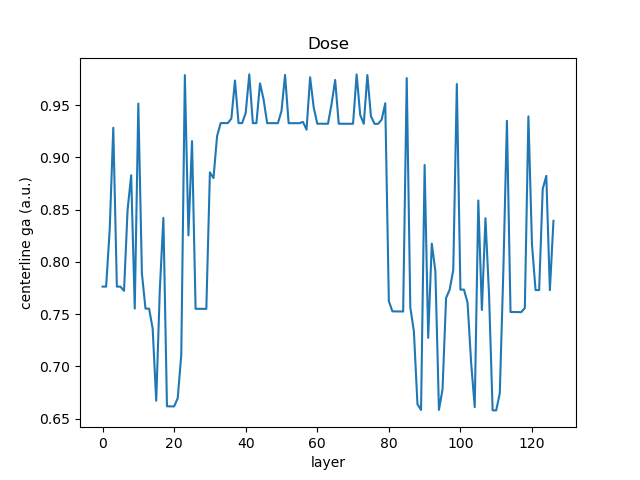
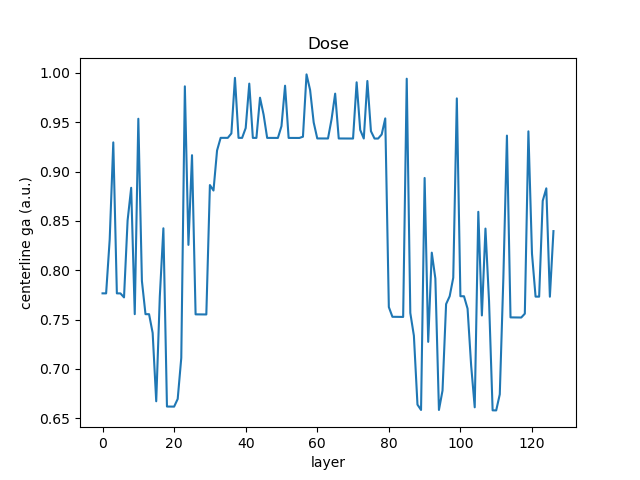
Though messy, get a commit. Because it gives the right result

diff --git a/FastDoseExample/scripts.py b/FastDoseExample/scripts.py
@@ -326,7 +326,11 @@ def examine_X():
     """
     This function examines the intermediate values XA
     """
-    file = "/data/qifan/projects/EndtoEnd/results/CCCSBench/DoseCompDebug_VoxelIdx.bin"
+    idx_flag = False
+    if idx_flag:
+        file = "/data/qifan/projects/EndtoEnd/results/CCCSBench/DoseCompDebug_VoxelIdx.bin"
+    else:
+        file = "/data/qifan/projects/EndtoEnd/results/CCCSBench/DoseCompDebug.bin"
     shape = (1024, 16, 16)
     array = np.fromfile(file, dtype=np.float32)
     array = np.reshape(array, shape)
@@ -343,8 +347,8 @@ def examine_X():
     dimZ = int(DoseArray.size / (sliceShape[0] * sliceShape[1]))
     print("Dose dimension Z: ", dimZ)
 
-    if True:
-        x_value = np.arange(nNonzero)
+    x_value = np.arange(nNonzero)
+    if False:
         plt.plot(x_value, array_partial[:nNonzero])
         plt.xlabel('layer')
         plt.ylabel('partialX')
@@ -359,7 +363,10 @@ def examine_X():
         plt.xlabel('layer')
         plt.ylabel('centerlineX')
         plt.title('XA')
-        figureFile = './figures/centerlineX.png'
+        if idx_flag:
+            figureFile = './figures/centerlineX.png'
+        else:
+            figureFile = './figures/rayTraceX.png'
         plt.savefig(figureFile)
         plt.clf()
 
@@ -399,7 +406,9 @@ def examineDoseStep():
     plt.xlabel('layer')
     plt.ylabel('centerline ga (a.u.)')
     plt.title('Dose')
-    figureFile = './figures/centerlineGA.png'
+    # figureFile = './figures/centerlineGA.png'
+    # figureFile = './figures/centerlineLineSegDose.png'
+    figureFile = './figures/centerlineSharedDose.png'
     plt.savefig(figureFile)
     plt.clf()
 
@@ -418,6 +427,49 @@ def examineDoseStep():
     plt.savefig(figureFile)
     plt.clf()
 
+    RealDoseFile = '/data/qifan/projects/EndtoEnd/results/CCCSBench/DoseBEV.bin'
+    RealDoseArray = np.fromfile(RealDoseFile, dtype=np.float32)
+    RealDoseDimZ = int(RealDoseArray.size / (16*16))
+    RealDoseShape = (RealDoseDimZ, 16, 16)
+    RealDoseArray = np.reshape(RealDoseArray, RealDoseShape)
+    RealDoseCenterline = RealDoseArray[:, 8, 8]
+    x_coords = np.arange(RealDoseDimZ)
+    plt.plot(x_coords, RealDoseCenterline)
+    plt.xlabel('depth')
+    plt.ylabel('centerline dose (a.u.)')
+    plt.title('Dose')
+    figureFile = './figures/centerlineRealDose.png'
+    plt.savefig(figureFile)
+    plt.clf()
+
+
+def overlayTermaAndX():
+    XFile = "/data/qifan/projects/EndtoEnd/results/CCCSBench/DoseCompDebug_VoxelIdx.bin"
+    shape = (1024, 16, 16)
+    centerlineIdx = int(shape[2] / 2)
+    XArray = np.fromfile(XFile, dtype=np.float32)
+    XArray = np.reshape(XArray, shape)
+    XArrayCenterline = XArray[:, centerlineIdx, centerlineIdx]
+    non_zero_idx = 0
+    for i in range(XArrayCenterline.size):
+        if XArrayCenterline[i] > 0:
+            non_zero_idx = i
+    x_coords = np.arange(non_zero_idx)
+    plt.plot(x_coords, XArrayCenterline[:non_zero_idx])
+
+    TermaFile = '/data/qifan/projects/EndtoEnd/results/CCCSBench/TermaBEV.bin'
+    TermaArray = np.fromfile(TermaFile, dtype=np.float32)
+    TermaDimZ = int(TermaArray.size / (16 * 16))
+    TermaShape = (TermaDimZ, 16, 16)
+    TermaArray = np.reshape(TermaArray, TermaShape)
+    TermaCenterline = TermaArray[:, 8, 8]
+    x_coords = np.arange(TermaDimZ)
+    plt.plot(x_coords, TermaCenterline)
+    plt.legend(["XA", "Terma"])
+    figureFile = 'figures/overlayTermaAndX.png'
+    plt.savefig(figureFile)
+    plt.clf()
+
 
 if __name__ == '__main__':
     # beamListGen()
@@ -431,3 +483,4 @@ if __name__ == '__main__':
     # examine_Dose_BEV()
     # examine_X()
     examineDoseStep()
+    # overlayTermaAndX()

diff --git a/KernelGen/derivation.md b/KernelGen/derivation.md
@@ -258,3 +258,35 @@ X_{i+1} &= \sum_{j=0}^{i} T_je^{-ar(x_j; x_{i+1})} (e^{ap_j}-1) \\
 &=T_i (1-e^{-ap_i}) + e^{-ap_i}X_i.
 \end{split}
 $$
+
+### Correction
+I've noticed a problem associated with the derivation above. We start with the following theory:
+$$
+D(x)=\int_0^x T(p)e^{-a(x-p)} adp.
+$$
+Then we focus on the line segment: $[x_1, x_2]$. The average dose on this line segment is:
+$$
+\begin{align*}
+D_{avg}(x_1;x_2) &= \frac{1}{x_2-x_1} \int_{x_1}^{x_2}D(x)dx \\
+&= \frac{1}{x_2-x_1} \int_{x_1}^{x_2} dx \int_{0}^{x}T(p)e^{-a(x-p)}adp.
+\end{align*}
+$$
+We assume the dose across the line segment $[x_1,x_2]$ is constant. We then can rewrite
+$$
+\begin{align*}
+D(x) &= \int_{0}^{x} T(p)e^{-a(x-p)}adp \\
+&= \int_{0}^{x_1} T(p)e^{-a(x-p)}adp + \int_{x_1}^{x} T(p)e^{-a(x-p)}adp \\
+&= e^{-a(x-x_1)} \int_0^{x_1} T(p)e^{-a(x_1 - p)}adp + T(x_1;x_2) \left. e^{a(p-x)} \right|_{x_1}^x \\
+&= e^{-a(x-x_1)} \int_0^{x_1} T(p)e^{-a(x_1 - p)} adp + T(x_1;x_2) (1 - e^{-a(x-x_1)}). \\
+&= e^{-a(x-x_1)} D(x_1) + T(x_1;x_2) (1-e^{-a(x-x_1)}).
+\end{align*}
+$$
+So the average dose across the line segment $[x_1, x_2]$ is:
+$$
+\begin{align*}
+D_{avg}(x_1;x_2) &= \frac{1}{x_2-x_1} \int_{x_1}^{x_2} \left( e^{-a(x-x_1)}D(x_1) + T(x_1;x_2)(1-e^{-a(x-x_1)}) \right) dx \\
+&= \frac{1}{x_2-x_1} \left( D(x_1)\frac{1}{-a} \left. e^{-a(x-x_1)} \right|_{x_1}^{x_2} \right) + \frac{1}{x_2-x_1}T(x_1;x_2) \left.\left( x + \frac{1}{a}e^{-a(x-x_1)} \right)\right|_{x_1}^{x_2} \\
+&= \frac{1}{x_2-x_1} \left( D(x_1) \frac{1}{a} (1-e^{-a(x_2-x_1)}) \right) + \frac{1}{x_2-x_1}T(x_1;x_2)\left( (x_2-x_1) + \frac{1}{a}(e^{-a(x_2-x_1)}-1)\right) \\
+&=\frac{1-e^{-a(x_2-x_1)}}{a(x_2-x_1)}D(x_1) + \left( 1 - \frac{1-e^{-a(x_2-x_1)}}{a(x_2-x_1)} \right) T(x_1;x_2)
+\end{align*}
+$$
